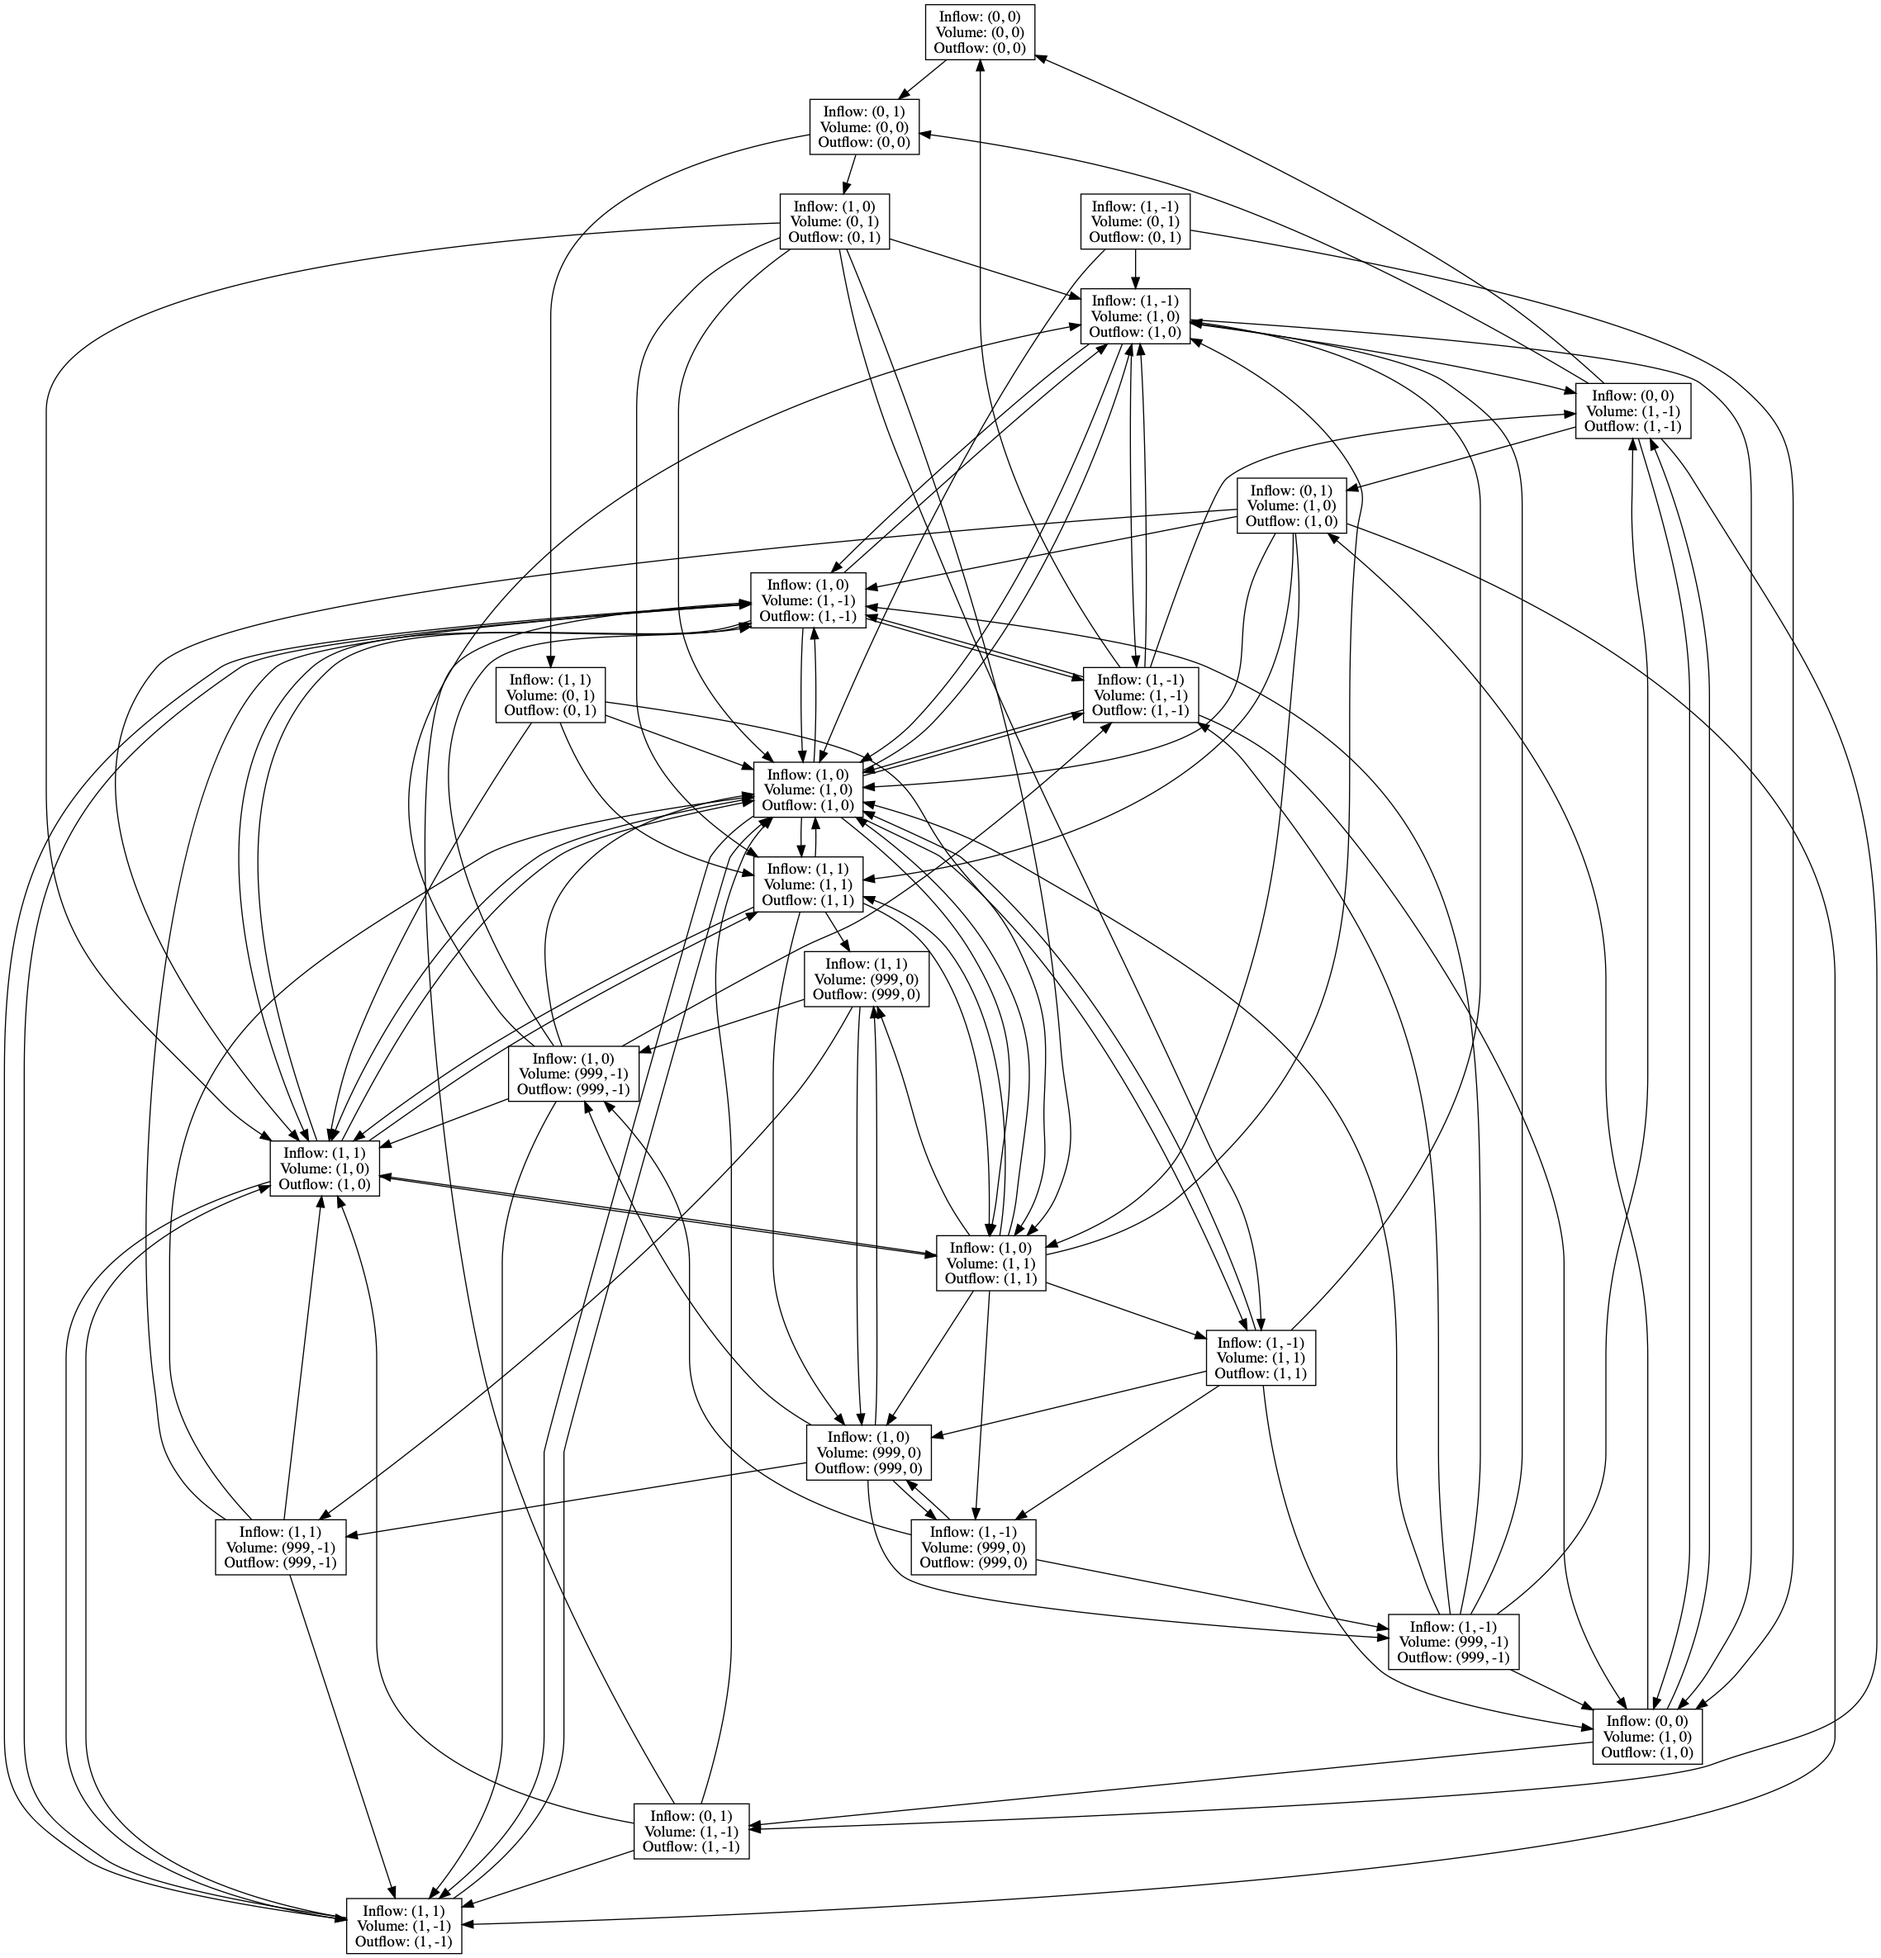
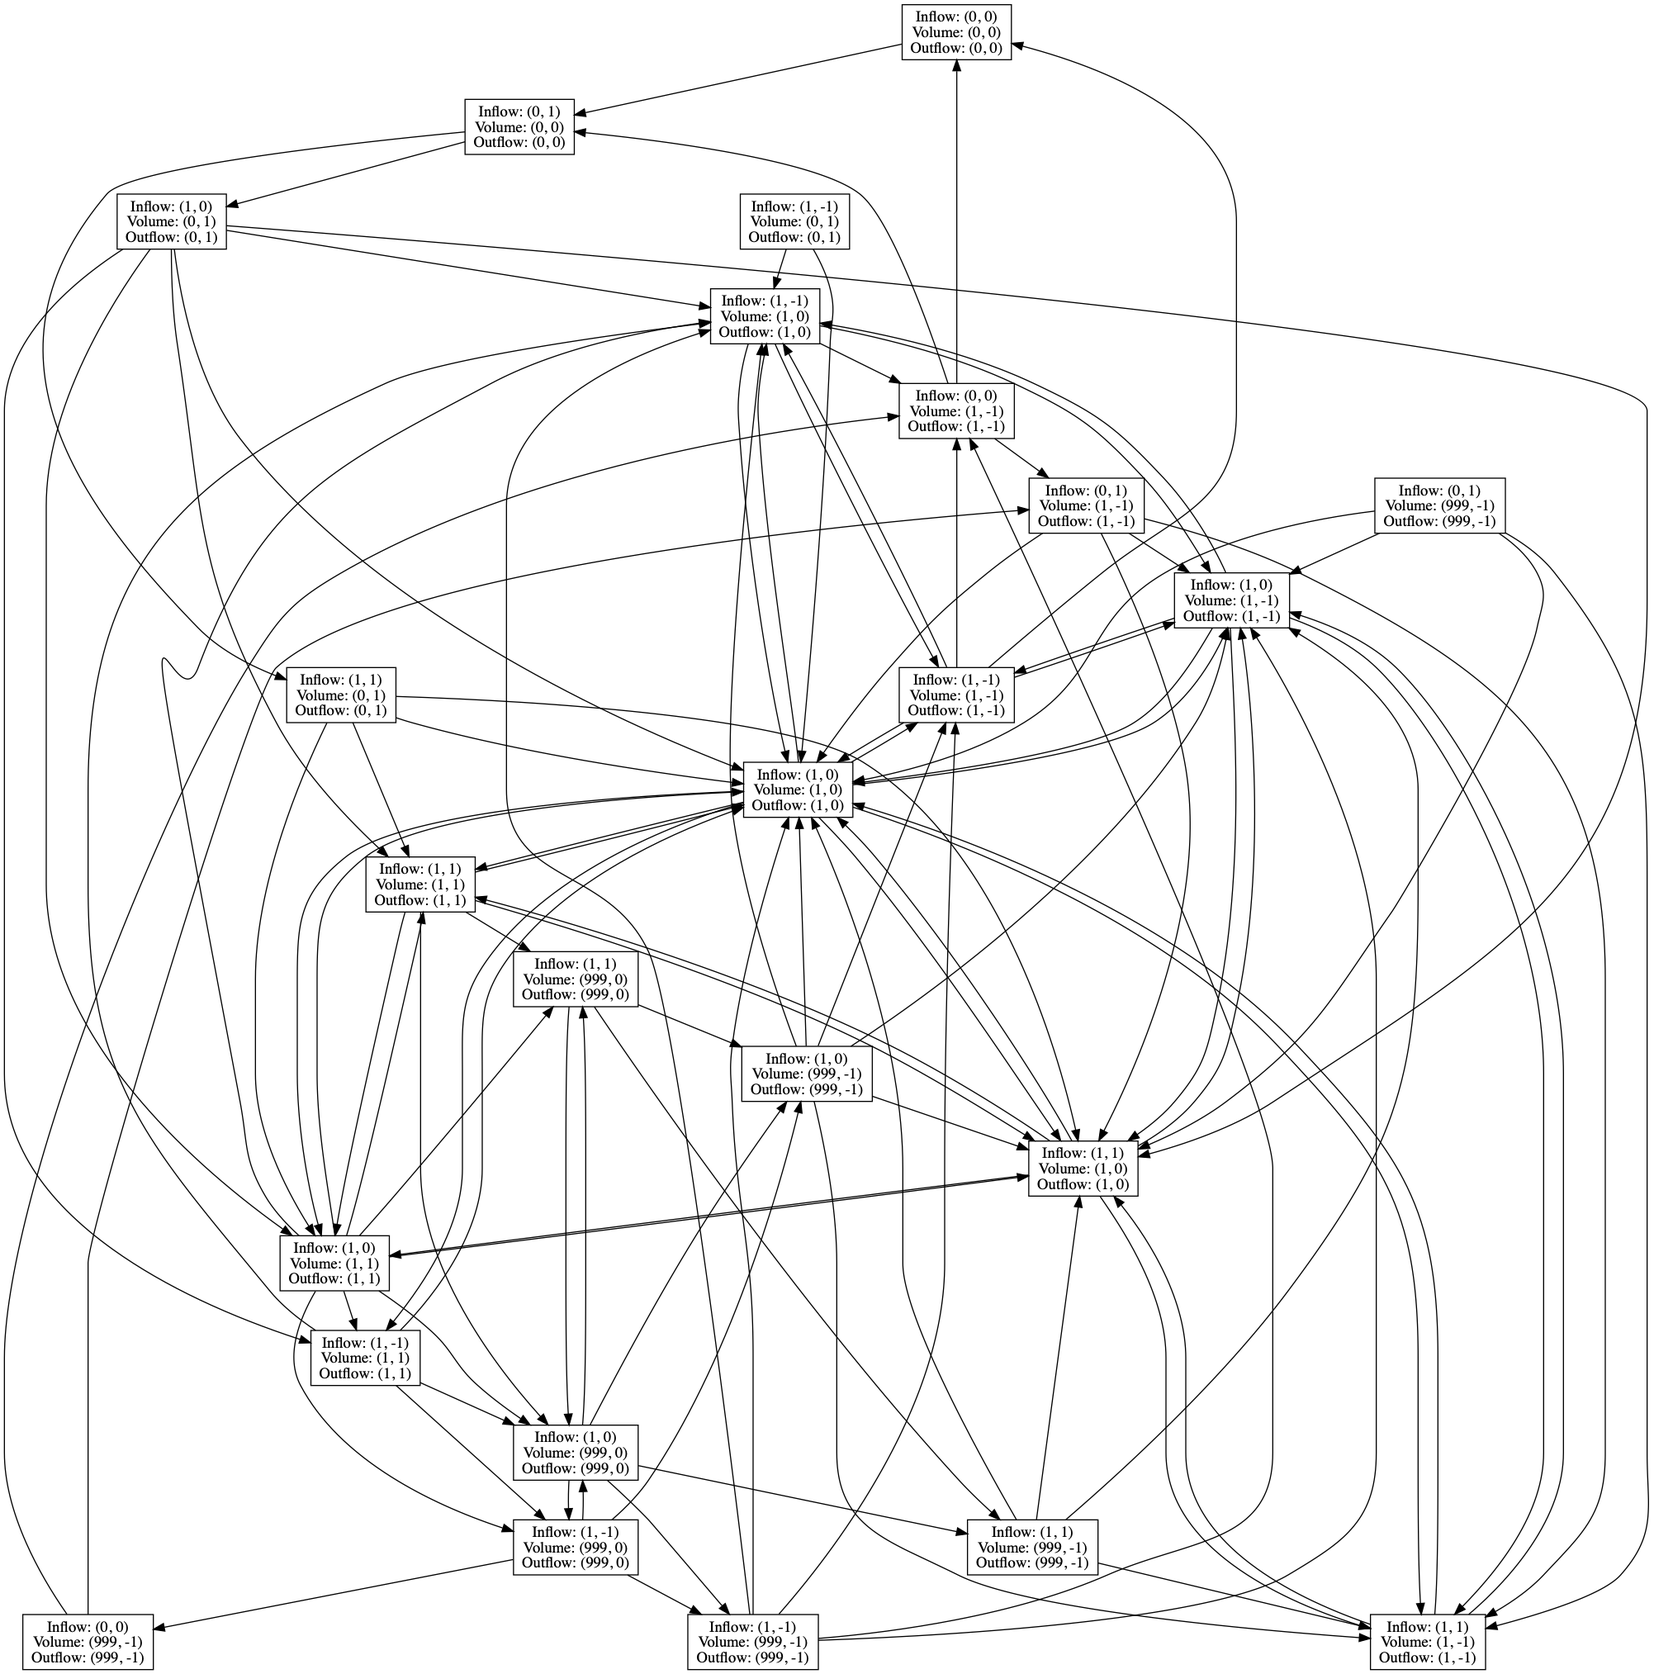
:smiley:

diff --git a/src/clean.py b/src/clean.py
@@ -2,11 +2,11 @@ from variables import MagnitudeValues, DerivativeValues
 from utils import tprint
 
 def validity_check(state):
+    if not state.quantities['Volume'].is_equal(state.quantities['Outflow']):
+        return False
+
+
     for s in state.quantities:
-
-        if not state.quantities['Volume'].is_equal(state.quantities['Outflow']):
-            return False
-
         # for quantity in state[s]:
         magnitude = state.quantities[s].magnitude.val
         derivative = state.quantities[s].derivative.val
@@ -31,43 +31,56 @@ def validity_check(state):
             tprint('{}({}, {}) is an invalid state'.format(s, magnitude, derivative))
             return False
 
+
         # ASSUMPTION: Outflow cannot be MAX AND become more positive
         if magnitude == MagnitudeValues.MAX and derivative == DerivativeValues.MAX:
             tprint('{}({}, {}) is an invalid state'.format(s, magnitude, derivative))
             return False
+
 
         # ASSUMPTION: Outflow cannot be ZERO AND become more negative
         if magnitude == MagnitudeValues.ZERO and derivative == DerivativeValues.MIN:
             tprint('{}({}, {}) is an invalid state'.format(s, magnitude, derivative))
             return False
 
+    if state.quantities['Inflow'].magnitude.val == MagnitudeValues.PLUS:
+        if state.quantities['Volume'].magnitude.val == MagnitudeValues.MAX:
+            return True
+
     if state.quantities['Inflow'].magnitude.val == MagnitudeValues.ZERO:
-        # ASSUMPTION: Inflow cannot be zero if the volume derivative is maximum
-        if state.quantities['Volume'].derivative.val == DerivativeValues.MAX:
-            tprint('{}({}, {}) and {}({},{}) is an invalid state'.format('Inflow', magnitude, '?', 'Volume', '?', state.quantities['Volume'].derivative.val))
+        if state.quantities['Volume'].magnitude.val == MagnitudeValues.PLUS and not state.quantities['Volume'].derivative.val == DerivativeValues.MIN:
             return False
+
+        # if not state.quantities['Volume'].derivative.val == DerivativeValues.MAX:
+        #     return False
+
 
         # ASSUMPTION: Inflow cannot be zero, and Volume magnitude cannot be maximum if the volume derivative is zero
         if state.quantities['Volume'].magnitude.val == MagnitudeValues.MAX and state.quantities['Volume'].derivative.val == DerivativeValues.ZERO:
             tprint('{}({}, {}) and {}({},{}) is an invalid state'.format('Inflow', state.quantities['Inflow'].magnitude.val, '?', 'Volume', state.quantities['Volume'].magnitude.val, state.quantities['Volume'].derivative.val))
             return False
 
-        # ASSUMPTION: Inflow cannot be zero while the Volume magnitude is maximum
-        if state.quantities['Volume'].magnitude.val == MagnitudeValues.MAX:
-            tprint('{}({},{}) and {}({},{}) is an invalid state'.format('Inflow', state.quantities['Inflow'].magnitude.val, '?', 'Volume', state.quantities['Volume'].magnitude.val, '?'))
-            return False
+        # # ASSUMPTION: Inflow cannot be zero while the Volume magnitude is maximum
+        # if state.quantities['Volume'].magnitude.val == MagnitudeValues.MAX:
+        #     tprint('{}({},{}) and {}({},{}) is an invalid state'.format('Inflow', state.quantities['Inflow'].magnitude.val, '?', 'Volume', state.quantities['Volume'].magnitude.val, '?'))
+        #     return False
 
     # ASSUMPTION: Inflow magnitude cannot be plus while the Volume magnitude is zero and the Volume derivative value is not equal to the maximum
     if state.quantities['Inflow'].magnitude.val == MagnitudeValues.PLUS:
         if state.quantities['Volume'].magnitude.val == MagnitudeValues.ZERO and state.quantities['Volume'].derivative.val != DerivativeValues.MAX:
             tprint('{}({},{}) and {}({},{}) is an invalid state'.format('Inflow', state.quantities['Inflow'].magnitude.val, '?', 'Volume', state.quantities['Volume'].magnitude.val, '?'))
             return False
+
+    if state.quantities['Inflow'].magnitude.val == MagnitudeValues.ZERO:
+        if state.quantities['Volume'].derivative.val == DerivativeValues.MAX:
+            return False
+
     return True
 
 
 
 
-def clean_states(states):
+def clean_states(states, model):
     new_states = []
     for state in states:
         if validity_check(state):
@@ -141,6 +154,7 @@ def transition_validity_check(s1, s2):
         if s1.quantities['Volume'].derivative.val == DerivativeValues.ZERO and s2.quantities['Volume'].derivative.val == DerivativeValues.MAX:
             return False
 
+    # ASSUMPTION: The Volume derivative of state 2 cannot be maximum if the Inflow derivative of state 1 is negative
     if s1.quantities['Inflow'].derivative.val == DerivativeValues.MIN:
         if s2.quantities['Volume'].derivative.val == DerivativeValues.MAX:
             return False

diff --git a/src/main.py b/src/main.py
@@ -11,15 +11,15 @@ from graph import Graph
 
 if __name__ == '__main__':
 
-    # model = [
-    #         Model("I+", None, "Inflow", "Volume"),
-    #         Model("I-", None, "Outflow", "Volume"),
-    #         Model("P+", None, "Volume", "Outflow"),
-    #         Model("VC", MagnitudeValues.MAX, "Volume", "Outflow"),
-    #         Model("VC", MagnitudeValues.ZERO, "Volume", "Outflow"),
-    #         Model("VC", MagnitudeValues.MAX, "Outflow", "Volume"),
-    #         Model("VC", MagnitudeValues.ZERO, "Outflow", "Volume")
-    # ]
+    model = [
+            Model("I+", None, "Inflow", "Volume"),
+            Model("I-", None, "Outflow", "Volume"),
+            Model("P+", None, "Volume", "Outflow"),
+            Model("VC", MagnitudeValues.MAX, "Volume", "Outflow"),
+            Model("VC", MagnitudeValues.ZERO, "Volume", "Outflow"),
+            Model("VC", MagnitudeValues.MAX, "Outflow", "Volume"),
+            Model("VC", MagnitudeValues.ZERO, "Outflow", "Volume")
+    ]
 
 
     parser = argparse.ArgumentParser()
@@ -27,12 +27,12 @@ if __name__ == '__main__':
     args = parser.parse_args()
 
     states = generate()
-    new_states = clean_states(states)
+    new_states = clean_states(states, model)
 
-    print('new states: {}, old states {}'.format(len(new_states), len(states)))
 
     transitions = list(product(new_states, new_states))
     new_transitions = clean_transitions(transitions)
+    print('new states: {}, old states {}'.format(len(new_states), len(states)))
     print('new transitions: {}, old transitions {}'.format(len(new_transitions), len(transitions)))
 
     graph = Graph(new_states, path=args.D)

diff --git a/src/utils.py b/src/utils.py
@@ -1,6 +1,7 @@
 
 idx = 0
 def tprint(s):
+    return
     global idx
     print('# TRACE {}: {}'.format(idx, s))
 
